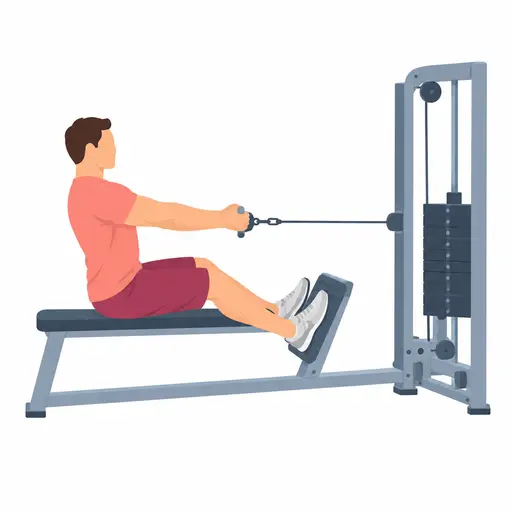
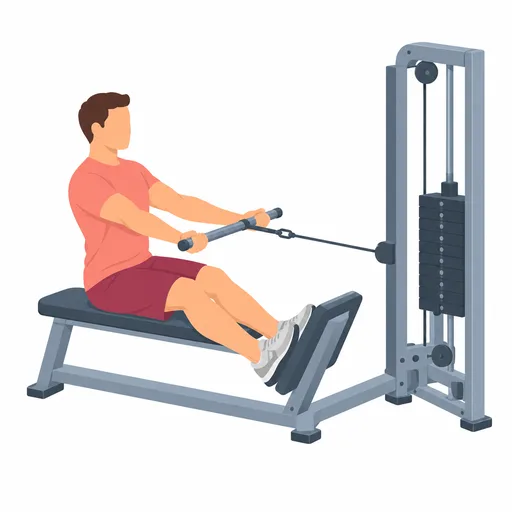
Ejercicios: nuevo «Curl araña» y remo en polea con barra agarre inverso redibujado (barra recta, sin cara)

Changed region(s): [[0.0312, 0.0625, 0.9688, 0.875]]

diff --git a/apps/mobile/src/lib/exercise-images.ts b/apps/mobile/src/lib/exercise-images.ts
@@ -598,6 +598,11 @@ const FRAMES: Record<string, ExerciseFrames> = {
     require('../../assets/exercises/curl-bayesian-en-polea_0.webp'),
     require('../../assets/exercises/curl-bayesian-en-polea_1.webp'),
   ],
+  // Curl con el pecho apoyado en un banco inclinado y los brazos colgando (barra Z).
+  'curl arana': [
+    require('../../assets/exercises/curl-arana_0.webp'),
+    require('../../assets/exercises/curl-arana_1.webp'),
+  ],
   'pullover en polea alta (brazos rectos)': [
     require('../../assets/exercises/pullover-en-polea-alta-brazos-rectos_0.webp'),
     require('../../assets/exercises/pullover-en-polea-alta-brazos-rectos_1.webp'),

diff --git a/CLAUDE.md b/CLAUDE.md
@@ -31,7 +31,7 @@ Primero PWA para uso propio; después App Store (iPhone). Si funciona, se podrí
 - **Chat con la IA en streaming:** handler de Lambda aparte (junto al agente, como máximo 2 funciones). Node soporta streaming de forma nativa en Lambda (`awslambda.streamifyResponse`); Python no. Las Function URLs con streaming no funcionan dentro de una VPC, y si el cliente se desconecta la función sigue ejecutándose y cobrando. Pendiente de confirmar: si API Gateway (REST o HTTP) soporta el streaming. Mientras tanto se puede empezar sin streaming (respuesta completa).
 - **Empaquetado (resuelto):** `npm run build:lambda --workspace apps/api` compila con tsc y copia el JS con sus dependencias de producción a `apps/api/lambda-dist`. No se usa esbuild: no emite los metadatos de los decoradores y además rompe `mongoose` con `@nestjs/mongoose` ("Cannot set property nextConnectionId").
 - **Infraestructura con AWS CDK** en `apps/infra` (stack `TrainerStack`, eu-west-1): VPC con subredes públicas y sin NAT (un NAT cuesta ~33 $/mes), clúster ECS con un servicio Fargate, Cloud Map (el API Gateway localiza la tarea por un VPC Link, sin balanceador, que costaría ~17 $/mes) y un API Gateway HTTP con tope de 50 peticiones/s, más el presupuesto mensual de 10 $ (coste real ~14 $/mes, cubierto por créditos de AWS mientras duren). La imagen es `apps/api/Dockerfile` (contexto: la raíz del repo; reutiliza `build:lambda` para empaquetar) y CDK la construye y la sube a ECR al desplegar, así que hace falta **Docker Desktop abierto**. Desplegar: `npx cdk deploy` dentro de `apps/infra`. La URI de Mongo vive en SSM (`/trainer/mongodb-uri`, SecureString) y llega al contenedor como secreto de ECS. La URL pública sale como `ServerApiUrl` y está en `apps/mobile/src/config.ts`. Atlas (M0) permite `0.0.0.0/0` porque la tarea no tiene IP fija: pasar a PrivateLink antes de abrir la app al público.
-- **Catálogo base de ejercicios:** `apps/api/seed/exercises.base.json` (151: los 134 de antes, 1 «Curl Bayesian en polea», 1 «Pullover en polea alta (brazos rectos)», 2 de cruces en polea baja y media, 4 para la plantilla «Pre-competición» y 9 para las de «Fuerza máxima» e «Hipertrofia»; 4 añadidos para la plantilla «Pre-competición») y `npm run seed --workspace apps/api` para cargarlo (idempotente).
+- **Catálogo base de ejercicios:** `apps/api/seed/exercises.base.json` (152: «Curl araña» con barra Z, boca abajo en banco inclinado, más los 151 de antes: los 134 de antes, 1 «Curl Bayesian en polea», 1 «Pullover en polea alta (brazos rectos)», 2 de cruces en polea baja y media, 4 para la plantilla «Pre-competición» y 9 para las de «Fuerza máxima» e «Hipertrofia»; 4 añadidos para la plantilla «Pre-competición») y `npm run seed --workspace apps/api` para cargarlo (idempotente).
 - **Web:** GitHub Pages en https://dgalreina.github.io/trainer/ (workflow `.github/workflows/pages.yml`).
 - En el servidor Mongoose mantiene su propia conexión; en una Lambda (agente) reutilizarla entre invocaciones (variable fuera del handler).
 - **Cada dato se pide una vez al back y se comparte entre pantallas** con un proveedor (`ExercisesProvider`, `FoodsProvider`, `TrainingsProvider`…), nunca con hooks que cada pantalla instancia por su cuenta.
@@ -121,5 +121,5 @@ Primero PWA para uso propio; después App Store (iPhone). Si funciona, se podrí
 ## Imágenes de ejercicios
 
 - **Cómo se generan:** a partir de las dos fotos (posición inicial y final) de free-exercise-db (dominio público, Unlicense), redibujadas con OpenAI (`images.edit`, el mismo modelo y la misma clave que usa china-history, en `china-history-api/.env`; la clave solo se usa en local, nunca en el repo ni en la app). La imagen inicial sale de la foto 0 y la final de la ilustración inicial más la foto 1, para que figura y encuadre no cambien entre las dos. Estilo: ilustración plana, atleta sin cara con camiseta salmón y pantalón rosa oscuro, material en gris azulado, **sin fondo de gimnasio** y solo el material del ejercicio (sacarlo del campo `equipment`; si se lista material genérico en el prompt, el modelo lo dibuja todo).
-- **Dónde viven:** `apps/mobile/assets/exercises/<nombre-del-ejercicio>_0.webp` y `_1.webp`, a 512 px y unos 12 KB cada una, y se registran por nombre en `lib/exercise-images.ts`. Hay 150 y ya no falta ninguno del catálogo (el «Pullover en polea alta (brazos rectos)», o jalón con brazos rectos, también solo con texto —en tres cuartos, con una barra larga y agarre ancho— y el «Curl Bayesian en polea», de espaldas a la polea baja y con el brazo por detrás del cuerpo, se hizo solo con texto —no hay equivalente en free-exercise-db— y el atleta de «Cruces en polea baja» como referencia): las planchas (estáticas: «Plancha abdominal» usa la misma imagen en las dos posiciones y «Plancha lateral» lleva tumbado y cadera arriba) y «Sprints» (dos fases de la zancada: rodilla arriba y paso con el talón al glúteo, porque como dos zancadas iguales salían idénticas) se dibujaron al final con texto y la ilustración de «Cruces en polea baja» como referencia del atleta (hombre de pelo corto sin cara; sin esa referencia salía una mujer con coleta y con cara) (antes de eso: 145 («Cruces en polea baja» y «Cruces en polea media» se hicieron redibujando las dos ilustraciones de «Cruces en polea» —misma vista, estilo y tamaño— con las poleas abajo y a la altura del pecho; las 9 anteriores —«Jalón al pecho agarre inverso», «Remo en polea con barra agarre inverso», «Curl con mancuernas en banco inclinado», «Extensión de tríceps a una mano en polea agarre inverso», «Extensión de tríceps sobre la cabeza en polea», «Elevaciones frontales en polea», «Press militar en máquina Smith», «Zancadas en máquina Smith» y «Press inclinado en máquina»— se hicieron igual, a partir de Underhand_Cable_Pulldowns, Seated_Cable_Rows, Incline_Dumbbell_Curl, Cable_One_Arm_Tricep_Extension, Cable_Rope_Overhead_Triceps_Extension, Front_Cable_Raise, Smith_Machine_Overhead_Shoulder_Press, Smith_Single-Leg_Split_Squat y Leverage_Incline_Chest_Press; antes, los cuatro últimos —«Remo Dorian», «Curl Scott inverso», «Elevaciones laterales sentado» y «Prensa de piernas con pies altos», añadidos para la plantilla «Pre-competición»— salen de Reverse_Grip_Bent-Over_Rows, Reverse_Barbell_Preacher_Curls, Seated_Side_Lateral_Raise y Leg_Press, con el estilo y las reglas de arriba; la imagen de la prensa se pidió con los pies arriba del todo en la plataforma). Se quedan sin imagen las planchas (estáticas) y «Sprints» (las dos zancadas salían idénticas). «Dragon flag» y «Jumping jacks» se generaron solo con texto (`images.generations` para la primera posición y `images.edit` para la segunda). «Burpees» parte de una foto de Wikimedia Commons («Burpee 3 Hands Grounded», CC BY-SA 4.0) más «Airborne Burpee» (dominio público); el dueño del proyecto acepta usar fotos de internet solo como inspiración, anotando autor y licencia aquí. «Remo pendlay», «Elevaciones frontales con barra», «Curl 21s», «Battle ropes» y «Wall balls» se hicieron después con fotos de ejercicios parecidos (Bent_Over_Barbell_Row, Front_Plate_Raise, Barbell_Curl, Battling_Ropes, Overhead_Slam); el «Curl 21s» lleva **tres** posiciones (abajo, mitad —la pausa— y arriba, `curl-21s_mid.webp`) y `ExerciseMotion` recorre N imágenes en ida y vuelta; en tres de ellas el modelo devolvió las dos posiciones en una imagen y se recortó cada panel. Incluye Funcional y Olímpicos (la thruster y la Turkish get-up se piden con mancuernas aunque la foto sea de kettlebell). Notas de las tandas: si el equipo cambia de escala entre las dos imágenes (cajón, clean, paseo del granjero) se alinea por la zona del equipo y se reduce la figura (0,85) para no cortar la cabeza; la elevación de piernas colgado salió con dos paneles en una imagen y se recortó el panel izquierdo y se registró por los postes; la sentadilla hack (máquina reclinada) se quedó sin alinear; cuando el modelo devuelve dos paneles en una imagen se puede recortar cada panel a su fotograma (curl femoral nórdico: recorte y registro por la esterilla); si el alineado exige escala >1, se reduce la figura y se ancla abajo para no cortar la cabeza (fondos en paralelas). Antes: todo Pecho, buena parte de Espalda y de Hombros (hasta el press Arnold, sin «Remo pendlay» ni «Elevaciones frontales con barra», que no tienen equivalente fiable en free-exercise-db) más los encogimientos de hombros con barra (la lista completa está en `lib/exercise-images.ts`; «Dominadas asistidas en máquina» se hizo a partir de las fotos de dominadas con una máquina con plataforma para las rodillas, porque free-exercise-db solo tiene la versión con banda). Repetidas tras revisarlas: cruces en polea, encogimientos con barra, jalón tras nuca, pesos muertos, remo en máquina y elevaciones laterales en polea. Lecciones: en las máquinas de polea se dibuja la pila de pesas (en la segunda imagen las placas de arriba suben y se ve un hueco; sin pila no se entendía), agarres descritos como un cable simple, y en los pesos muertos «cuerpo entero con los pies visibles»; en máquinas con pila solo suben las 3 placas de arriba, en las de dos columnas con cables cruzados (elevaciones laterales en polea) cada mano va a la columna contraria, y si el modelo devuelve dos paneles en una imagen se regenera esa con `images.edit` a partir de la buena; en el remo invertido, que la foto toma con la barra hacia la cámara, en vista lateral pura el modelo la dibujaba doble y confusa, y de punta con un solo poste quedaba rara; funciona una vista en tres cuartos (cámara girada ~40°, la barra como una diagonal entre dos postes, «ONLY ONE bar»); el peso muerto se alinea por los pies y se reduce (0,82, anclado abajo) en vez de recortar la cabeza. Los nueve primeros, de Pecho: press de banca con barra, con mancuernas y con agarre cerrado, fondos en paralelas, aperturas con mancuernas (Dumbbell Flyes), aperturas inclinadas (Incline Dumbbell Flyes), contractora (Butterfly), cruces en polea (Cable Crossover) y flexiones de brazos (Pushups); el registro está en `lib/exercise-images.ts`. **Sin suelo** en el prompt (si se dibuja una línea de suelo, cambia entre las dos imágenes y «se mueve»). **Regla de alineado automático** (mitad inferior del encuadre si el ejercicio tiene banco o pies fijos; imagen entera en máquinas; parte superior en dominadas): se acepta la imagen alineada solo si el error baja a menos de la mitad, la escala cambia como mucho un 20 %, el desplazamiento horizontal no pasa de 40 px y el vertical de 70; si no, se deja la imagen sin tocar. **Revisar la imagen final aunque el alineado se acepte**: en el peso muerto rumano y el press Arnold el ajuste (con escala 1,09-1,11) cortaba la cabeza o las mancuernas por el borde y se dejaron sin alinear a mano. Se genera una hoja con todas las superposiciones para revisarlas de un vistazo. **El alineado automático no siempre mejora**: en las flexiones, donde cambia la figura entera y no hay zona quieta, encogía la figura (escala 0,925) y descolocaba las manos; ahí se dejó la segunda imagen sin alinear. Comprobar siempre la superposición antes y después y quedarse con la mejor. **Imágenes sin menú de iOS:** al mantener pulsada una imagen, iOS abre una vista ampliada para copiarla y marca un marco; se evita con `pointerEvents: none`, `userSelect: none` y `-webkit-touch-callout: none` en la imagen (`exercise-motion.tsx`), en el recuadro y en `global.css`. En el prompt hay que indicar el material exacto de cada ejercicio. Al alinear, la zona de comparación es la mitad inferior en los press de banca; en los fondos, donde se mueve casi todo el cuerpo, se usa la imagen entera y lo que acaba coincidiendo es la estructura de barras. El resto se hará en tandas cuando guste el resultado. **Alinear la imagen final con la inicial:** aunque se pase la ilustración inicial como referencia, el modelo recoloca un poco la escena (en el press de banca, ~17 px en vertical) y al alternarlas parece que el banco sube y baja. Se corrige a posteriori: se busca el desplazamiento y la escala de la imagen final que mejor encajan con la inicial sobre la zona casi inmóvil (mitad inferior: banco y pies) y se re-renderiza desplazada; el error de coincidencia bajó de 1327 a 113. Hacerlo para cada ejercicio nuevo antes de guardarlo. Pendiente: emparejar los 133 nombres del catálogo con los de free-exercise-db.
+- **Dónde viven:** `apps/mobile/assets/exercises/<nombre-del-ejercicio>_0.webp` y `_1.webp`, a 512 px y unos 12 KB cada una, y se registran por nombre en `lib/exercise-images.ts`. Hay 151 y ya no falta ninguno del catálogo («Curl araña» y el «Remo en polea con barra agarre inverso» rehecho —antes con asa en V y cara— se dibujaron con `images.edit` de `gpt-image-2.5-sunburst` a partir de las ilustraciones existentes: el remo en tres cuartos, porque una barra recta vista de lado se ve de punta; la araña con la del curl inclinado como referencia de estilo; ) (el «Pullover en polea alta (brazos rectos)», o jalón con brazos rectos, también solo con texto —en tres cuartos, con una barra larga y agarre ancho— y el «Curl Bayesian en polea», de espaldas a la polea baja y con el brazo por detrás del cuerpo, se hizo solo con texto —no hay equivalente en free-exercise-db— y el atleta de «Cruces en polea baja» como referencia): las planchas (estáticas: «Plancha abdominal» usa la misma imagen en las dos posiciones y «Plancha lateral» lleva tumbado y cadera arriba) y «Sprints» (dos fases de la zancada: rodilla arriba y paso con el talón al glúteo, porque como dos zancadas iguales salían idénticas) se dibujaron al final con texto y la ilustración de «Cruces en polea baja» como referencia del atleta (hombre de pelo corto sin cara; sin esa referencia salía una mujer con coleta y con cara) (antes de eso: 145 («Cruces en polea baja» y «Cruces en polea media» se hicieron redibujando las dos ilustraciones de «Cruces en polea» —misma vista, estilo y tamaño— con las poleas abajo y a la altura del pecho; las 9 anteriores —«Jalón al pecho agarre inverso», «Remo en polea con barra agarre inverso», «Curl con mancuernas en banco inclinado», «Extensión de tríceps a una mano en polea agarre inverso», «Extensión de tríceps sobre la cabeza en polea», «Elevaciones frontales en polea», «Press militar en máquina Smith», «Zancadas en máquina Smith» y «Press inclinado en máquina»— se hicieron igual, a partir de Underhand_Cable_Pulldowns, Seated_Cable_Rows, Incline_Dumbbell_Curl, Cable_One_Arm_Tricep_Extension, Cable_Rope_Overhead_Triceps_Extension, Front_Cable_Raise, Smith_Machine_Overhead_Shoulder_Press, Smith_Single-Leg_Split_Squat y Leverage_Incline_Chest_Press; antes, los cuatro últimos —«Remo Dorian», «Curl Scott inverso», «Elevaciones laterales sentado» y «Prensa de piernas con pies altos», añadidos para la plantilla «Pre-competición»— salen de Reverse_Grip_Bent-Over_Rows, Reverse_Barbell_Preacher_Curls, Seated_Side_Lateral_Raise y Leg_Press, con el estilo y las reglas de arriba; la imagen de la prensa se pidió con los pies arriba del todo en la plataforma). Se quedan sin imagen las planchas (estáticas) y «Sprints» (las dos zancadas salían idénticas). «Dragon flag» y «Jumping jacks» se generaron solo con texto (`images.generations` para la primera posición y `images.edit` para la segunda). «Burpees» parte de una foto de Wikimedia Commons («Burpee 3 Hands Grounded», CC BY-SA 4.0) más «Airborne Burpee» (dominio público); el dueño del proyecto acepta usar fotos de internet solo como inspiración, anotando autor y licencia aquí. «Remo pendlay», «Elevaciones frontales con barra», «Curl 21s», «Battle ropes» y «Wall balls» se hicieron después con fotos de ejercicios parecidos (Bent_Over_Barbell_Row, Front_Plate_Raise, Barbell_Curl, Battling_Ropes, Overhead_Slam); el «Curl 21s» lleva **tres** posiciones (abajo, mitad —la pausa— y arriba, `curl-21s_mid.webp`) y `ExerciseMotion` recorre N imágenes en ida y vuelta; en tres de ellas el modelo devolvió las dos posiciones en una imagen y se recortó cada panel. Incluye Funcional y Olímpicos (la thruster y la Turkish get-up se piden con mancuernas aunque la foto sea de kettlebell). Notas de las tandas: si el equipo cambia de escala entre las dos imágenes (cajón, clean, paseo del granjero) se alinea por la zona del equipo y se reduce la figura (0,85) para no cortar la cabeza; la elevación de piernas colgado salió con dos paneles en una imagen y se recortó el panel izquierdo y se registró por los postes; la sentadilla hack (máquina reclinada) se quedó sin alinear; cuando el modelo devuelve dos paneles en una imagen se puede recortar cada panel a su fotograma (curl femoral nórdico: recorte y registro por la esterilla); si el alineado exige escala >1, se reduce la figura y se ancla abajo para no cortar la cabeza (fondos en paralelas). Antes: todo Pecho, buena parte de Espalda y de Hombros (hasta el press Arnold, sin «Remo pendlay» ni «Elevaciones frontales con barra», que no tienen equivalente fiable en free-exercise-db) más los encogimientos de hombros con barra (la lista completa está en `lib/exercise-images.ts`; «Dominadas asistidas en máquina» se hizo a partir de las fotos de dominadas con una máquina con plataforma para las rodillas, porque free-exercise-db solo tiene la versión con banda). Repetidas tras revisarlas: cruces en polea, encogimientos con barra, jalón tras nuca, pesos muertos, remo en máquina y elevaciones laterales en polea. Lecciones: en las máquinas de polea se dibuja la pila de pesas (en la segunda imagen las placas de arriba suben y se ve un hueco; sin pila no se entendía), agarres descritos como un cable simple, y en los pesos muertos «cuerpo entero con los pies visibles»; en máquinas con pila solo suben las 3 placas de arriba, en las de dos columnas con cables cruzados (elevaciones laterales en polea) cada mano va a la columna contraria, y si el modelo devuelve dos paneles en una imagen se regenera esa con `images.edit` a partir de la buena; en el remo invertido, que la foto toma con la barra hacia la cámara, en vista lateral pura el modelo la dibujaba doble y confusa, y de punta con un solo poste quedaba rara; funciona una vista en tres cuartos (cámara girada ~40°, la barra como una diagonal entre dos postes, «ONLY ONE bar»); el peso muerto se alinea por los pies y se reduce (0,82, anclado abajo) en vez de recortar la cabeza. Los nueve primeros, de Pecho: press de banca con barra, con mancuernas y con agarre cerrado, fondos en paralelas, aperturas con mancuernas (Dumbbell Flyes), aperturas inclinadas (Incline Dumbbell Flyes), contractora (Butterfly), cruces en polea (Cable Crossover) y flexiones de brazos (Pushups); el registro está en `lib/exercise-images.ts`. **Sin suelo** en el prompt (si se dibuja una línea de suelo, cambia entre las dos imágenes y «se mueve»). **Regla de alineado automático** (mitad inferior del encuadre si el ejercicio tiene banco o pies fijos; imagen entera en máquinas; parte superior en dominadas): se acepta la imagen alineada solo si el error baja a menos de la mitad, la escala cambia como mucho un 20 %, el desplazamiento horizontal no pasa de 40 px y el vertical de 70; si no, se deja la imagen sin tocar. **Revisar la imagen final aunque el alineado se acepte**: en el peso muerto rumano y el press Arnold el ajuste (con escala 1,09-1,11) cortaba la cabeza o las mancuernas por el borde y se dejaron sin alinear a mano. Se genera una hoja con todas las superposiciones para revisarlas de un vistazo. **El alineado automático no siempre mejora**: en las flexiones, donde cambia la figura entera y no hay zona quieta, encogía la figura (escala 0,925) y descolocaba las manos; ahí se dejó la segunda imagen sin alinear. Comprobar siempre la superposición antes y después y quedarse con la mejor. **Imágenes sin menú de iOS:** al mantener pulsada una imagen, iOS abre una vista ampliada para copiarla y marca un marco; se evita con `pointerEvents: none`, `userSelect: none` y `-webkit-touch-callout: none` en la imagen (`exercise-motion.tsx`), en el recuadro y en `global.css`. En el prompt hay que indicar el material exacto de cada ejercicio. Al alinear, la zona de comparación es la mitad inferior en los press de banca; en los fondos, donde se mueve casi todo el cuerpo, se usa la imagen entera y lo que acaba coincidiendo es la estructura de barras. El resto se hará en tandas cuando guste el resultado. **Alinear la imagen final con la inicial:** aunque se pase la ilustración inicial como referencia, el modelo recoloca un poco la escena (en el press de banca, ~17 px en vertical) y al alternarlas parece que el banco sube y baja. Se corrige a posteriori: se busca el desplazamiento y la escala de la imagen final que mejor encajan con la inicial sobre la zona casi inmóvil (mitad inferior: banco y pies) y se re-renderiza desplazada; el error de coincidencia bajó de 1327 a 113. Hacerlo para cada ejercicio nuevo antes de guardarlo. Pendiente: emparejar los 133 nombres del catálogo con los de free-exercise-db.
 
